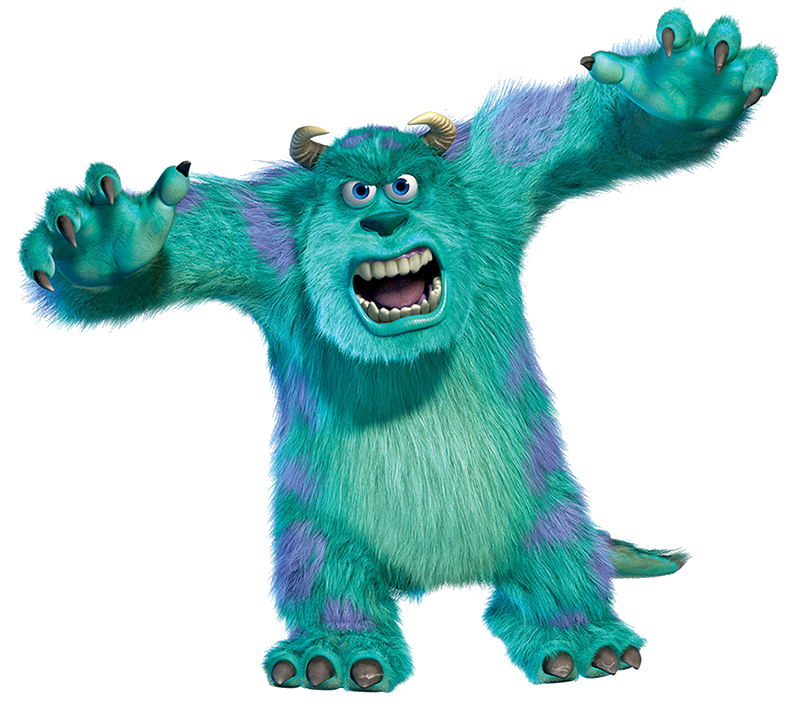
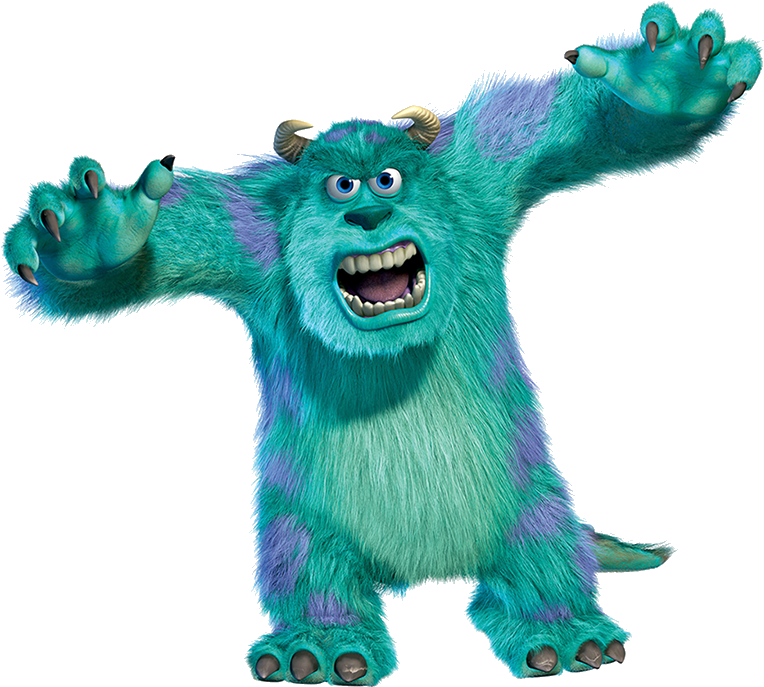
switched a front image to better quality one preload script before css to check if it will fix the image preload problem

Changed region(s): [[0.0, 0.0, 1.0, 1.0]]

diff --git a/style.css b/style.css
@@ -130,7 +130,7 @@ body > * {
     width: 100%;
     height: 90%;
     border: 1px solid black;
-    border-radius: 10%;
+    border-radius: 5%;
     display: flex;
     justify-content: space-around;
     flex-wrap: wrap;
@@ -192,7 +192,7 @@ body > * {
 }
 
 .front8 {
-    background-image: url('images/monsters_university_png_by_littlemixlover-d63ndpq.png');
+    background-image: url('images/Sullivan y Mike.png');
 }
 
 .front9 {
@@ -374,9 +374,9 @@ body > * {
 .reset.endingReset {
     width: 100px;
     height: 40px;
-    transform: rotate(-12deg);
     background-color: darkred;
     color: white;
+    transform: rotate(-12deg);
 }
 
 @keyframes animateStartButton {

diff --git a/index.html b/index.html
@@ -2,8 +2,8 @@
 <html>
 <head>
     <title>Memory Match V0.1</title>
-    <link rel="preload" href="style.css" as="style">
     <link rel="preload" href="main.js" as="script">
+    <link rel="preload" href="style.css" as="style">
     <link href="https://fonts.googleapis.com/css?family=Pacifico" rel="stylesheet">
     <link href="https://fonts.googleapis.com/css?family=Jua" rel="stylesheet">
     <link rel="stylesheet" href="https://use.fontawesome.com/releases/v5.6.3/css/all.css" integrity="sha384-UHRtZLI+pbxtHCWp1t77Bi1L4ZtiqrqD80Kn4Z8NTSRyMA2Fd33n5dQ8lWUE00s/" crossorigin="anonymous">
